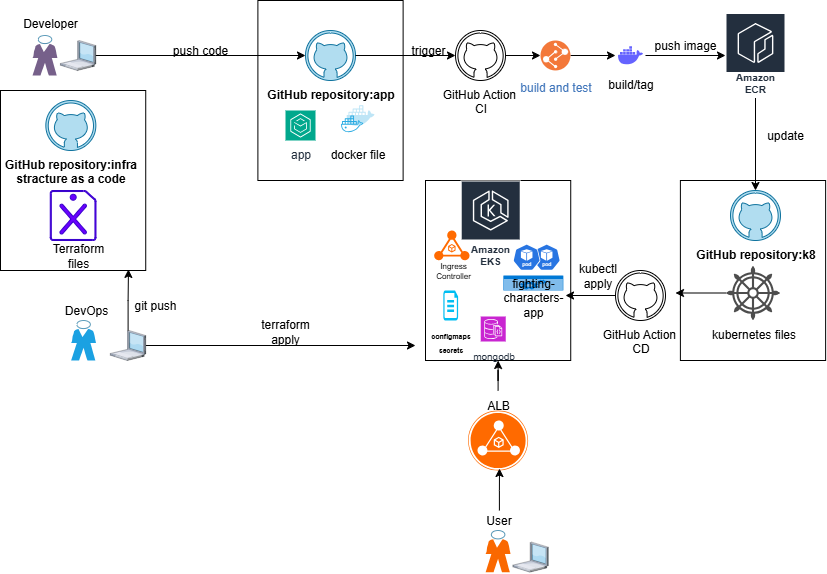
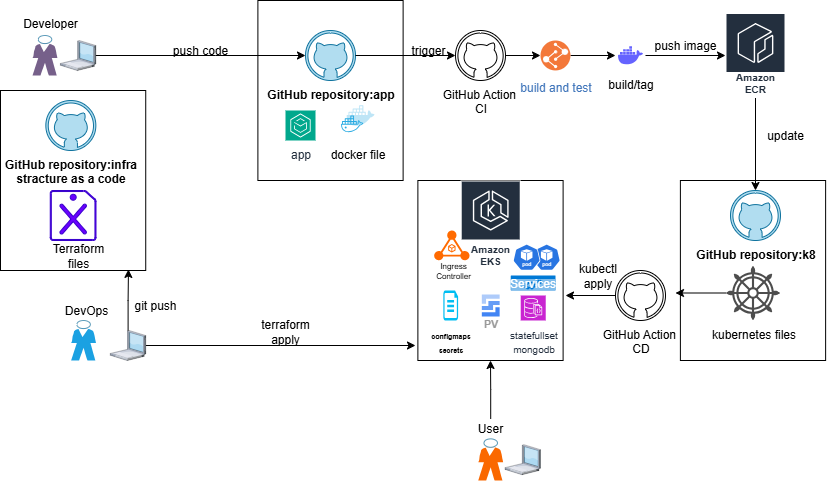
Add files via upload

diff --git a/README.md b/README.md
@@ -1,0 +1,94 @@
+# Fighting Characters – Kubernetes Manifests
+
+> Kubernetes manifests to deploy the Fighting Characters application on AWS EKS.
+
+## Overview
+This repository provides **Kubernetes manifests** and a **Kustomize setup** to deploy the Fighting Characters portfolio project.
+
+Key components:
+- **MongoDB** provisioned via **Bitnami Helm chart** (StatefulSet + PVC)
+- **Flask App Deployment** (Gunicorn-based container from AWS ECR)
+- **Service** (ClusterIP for app, internal Service for MongoDB)
+- **Ingress** (via Nginx Ingress Controller)
+- **ConfigMaps / Secrets** managed through Kustomize and GitHub Actions CD
+
+## Architecture
+![K8s Architecture](Diagram.png)
+
+- Namespace: `fighting-characters`
+- MongoDB (Helm chart → StatefulSet with PersistentVolumeClaims)
+- Flask App Deployment (ECR container with Gunicorn)
+- Service for app (ClusterIP / LoadBalancer depending on ingress)
+- Ingress via Nginx Ingress Controller
+
+## Repository Structure
+
+```
+k8/
+├── kustomization.yaml        # root: pulls Helm (Mongo) + app/
+├── mongodb-values.yaml       # Helm values for MongoDB
+└── app/
+    ├── kustomization.yaml    # app-only kustomize
+    ├── app.env               # non-sensitive env (ConfigMap generator)
+    ├── secret.yaml           # optional placeholder (or managed via CD)
+    ├── service.yaml          # Service for Flask API
+    └── deployment.yaml       # Deployment for Flask API
+```
+
+## Prerequisites
+- **kubectl** configured for AWS EKS
+- **Nginx Ingress Controller** installed in the cluster
+- **AWS CLI** with valid IAM permissions (via OIDC for GitHub Actions)
+- **ECR repository** with the latest app image pushed
+- **GitHub Actions secrets** for `MONGO_URI` and `APP_SECRET_KEY`
+
+## Getting Started
+```bash
+# Deploy all resources (MongoDB + app)
+kubectl apply -k k8/
+```
+
+Check status:
+```bash
+kubectl get pods -n fighting-characters
+kubectl get svc -n fighting-characters
+kubectl get ingress -n fighting-characters
+```
+
+Expected: External IP/DNS is assigned to the Ingress, app is accessible.
+
+## CI/CD Pipeline
+Deployment is automated via GitHub Actions CD workflow:
+- Triggered after pushing a new Docker image to AWS ECR
+- Uses OIDC to authenticate with AWS
+- Applies manifests with `kubectl apply -k k8/`
+- Updates image inside the Deployment
+- Runs smoke tests post-rollout
+
+```mermaid
+graph LR
+    A[Push to main] --> B[Build & Push Docker Image]
+    B --> C[Repository Dispatch to CD Workflow]
+    C --> D[Deploy manifests with kubectl apply -k k8/]
+    D --> E[Run smoke tests]
+```
+
+## Release History
+- 0.4.0 – Switch to Helm (MongoDB) + Kustomize (app), CD workflow updated  
+- 0.3.2 – Add ICEMAN character manifests, ingress fix  
+- 0.3.0 – Add app Deployment + Service  
+- 0.2.0 – Add MongoDB StatefulSet  
+- 0.1.0 – Initial repo structure  
+
+## Contact
+Ben Shavit – [LinkedIn](https://www.linkedin.com/in/ben-shavit-b07953142/) – shavitben5@hotmail.com  
+
+**Related Repositories**
+- [Application (Flask + Docker)](https://github.com/Trunkssj3/fighting-characters-app)  
+- [Infrastructure (Terraform)](https://github.com/Trunkssj3/fighting-characters-infra)  
+
+## Acknowledgments
+- Kubernetes community  
+- Bitnami Helm charts  
+- AWS EKS documentation  
+- Develeap instructors  
